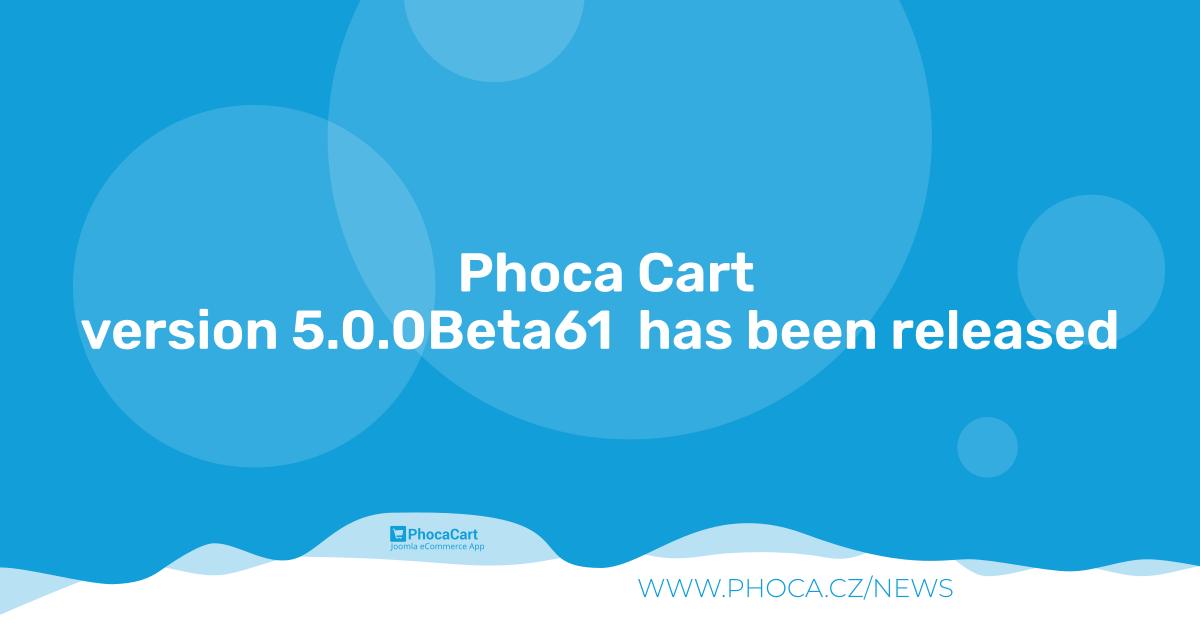
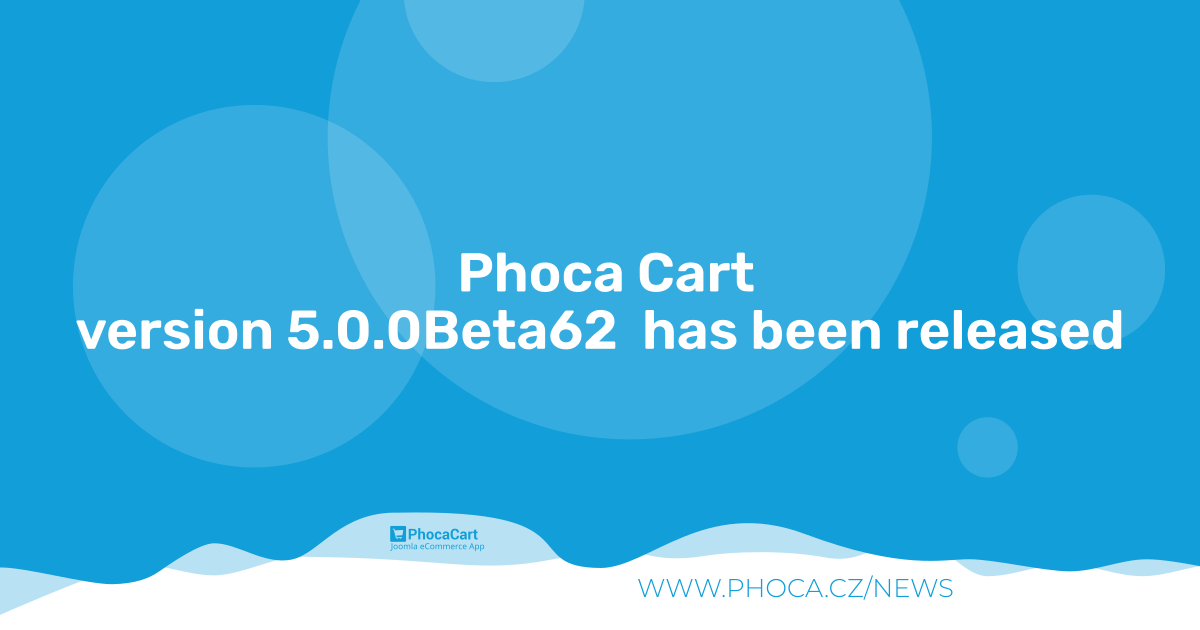
5.0.0Beta62

Changed region(s): [[0.0617, 0.4825, 0.9558, 0.573]]

diff --git a/media/js/phoca/jquery.phocaattribute.min.js b/media/js/phoca/jquery.phocaattribute.min.js
@@ -1,1 +1,1 @@
-function phChangeAttributeType(e){var t=(e=void 0!==e?".phj"+e:"")+".phjProductAttribute";jQuery(e+".phjCleanAttribute").remove(),jQuery(t).each(function(){let a="",i,r="#phItemAttribute"+jQuery(this).data("attribute-id-name"),u="#phItemHiddenAttribute"+jQuery(this).data("attribute-id-name");var e="#phItemBoxAttribute"+jQuery(this).data("attribute-id-name");let d=jQuery(this).data("attribute-type");var s=jQuery(this).data("type-view");let h=jQuery(this).data("type-icon"),n=jQuery(this).data("required");if(3==d?a="phSelectBoxImage":2==d&&(a="phSelectBoxButton"),""!=a){i=u+" ."+a;let t=jQuery(r).attr("name");var c=jQuery('<input type="hidden" name="'+t+'">');c.val(jQuery(r).val()),c.insertAfter(jQuery(r)),jQuery(u).css("display","block"),jQuery(e).css({display:"visible",position:"absolute",clip:"rect(0,0,0,0)"}),jQuery(e).addClass("phj"+s+" phjCleanAttribute"),jQuery(r+" option").each(function(){if(""!=jQuery(this).val()){let e="";3==d?e=jQuery('<div class="'+a+" "+h+'" data-value="'+jQuery(this).val()+'" data-value-alias="'+jQuery(this).data("value-alias")+'" title="'+jQuery(this).text()+'"><img src="'+jQuery(this).data("image")+'" alt="'+jQuery(this).text()+'" /></div>'):2==d&&(e=jQuery('<div class="'+a+" "+h+" color-"+jQuery(this).data("color").replace("#","")+'" style="background-color:'+jQuery(this).data("color")+'" data-value="'+jQuery(this).val()+'" data-value-alias="'+jQuery(this).data("value-alias")+'" title="'+jQuery(this).text()+'">&nbsp;</div>')),jQuery(this).is(":selected")&&e.addClass("on"),jQuery(u).append(e)}}),jQuery(i).on("click",function(e){if(e.preventDefault(),jQuery(this).hasClass("on")){if(1==n)return e.preventDefault(),!1;jQuery(this).removeClass("on"),jQuery('input[name="'+t+'"]').val(""),jQuery(r).val("").change()}else jQuery(i).removeClass("on"),jQuery(this).addClass("on"),jQuery('input[name="'+t+'"]').val(jQuery(this).data("value")),jQuery(r).val(jQuery(this).data("value")).change()})}})}function phAjaxChangeAttributeData(e,t,a,i){var r=Joomla.getOptions("phParamsPC"),u=Joomla.getOptions("phVarsPC").urlCheckoutChangeData,d=[],e=(d.id=e,d.id_item_price="#phItemPriceBox"+t+e,d.id_item_price_gift="#phItemPriceGiftBox"+t+e,d.id_item_stock="#phItemStockBox"+t+e,d.id_item_id="#phItemIdBox"+t+e,d.id_item_name="V"+t+"P"+e,d.product_add_to_cart_item=".phProductAddToCart"+t+e,d.product_add_to_cart_item_icon=".phProductAddToCartIcon"+t+e,d.view=t,d.method_price=r.dynamicChangePrice,d.method_stock=r.dynamicChangeStock,d.method_id=r.dynamicChangeId,d.method_image=r.dynamicChangeImage,d.task="change",d.type="changedata",d.class="ItemQuick"==t||"Pos"==t||"Item"==t?"ph-item-data-box":"ph-category-data-box","id="+d.id+"&"+a+"&"+i+"&class="+d.class+"&typeview="+d.view);phDoRequestMethods(u,e,d)}function phSetAttributeUrl(u){var e=Joomla.getOptions("phParamsPC"),t=Joomla.getOptions("phVarsPC");if(1!=e.dynamicChangeUrlAttributes)return!1;if("item"!=t.view)return!1;t=jQuery(location).attr("hash"),t=phReplaceAll("#","",t);let d=phUrlDeParam(t);t=".phjProductAttribute";let s="",h="",n="";var a=jQuery(t).closest("form").find("input[name=return]");let i="";void 0!==a.val()&&""!=a.val()&&(i=Base64.decode(a.val())),jQuery(t).each(function(){""!=s&&(s+="&");let e=this.id;var t=jQuery(this).data("alias");let a="",i="",r="#phItemHiddenAttribute"+jQuery(this).data("attribute-id-name");1==u?(void 0!==jQuery(this).find(":selected").data("value-alias")&&(a=jQuery(this).find(":selected").data("value-alias"),s=s+"a["+jQuery(this).data("alias")+"]="+a),void 0!==jQuery(this).find(":input:checked").data("value-alias")&&(jQuery.each(jQuery(this).find(":input:checked"),function(){""!=i&&(i+=","),i+=jQuery(this).data("value-alias")}),""!=i)&&(s=s+"a["+jQuery(this).data("alias")+"]="+i)):(void 0!==d.a&&void 0!==t&&void 0!==d.a[t]?(s=s+"a["+jQuery(this).data("alias")+"]="+d.a[t],void 0===(t=d.a[t].split(","))&&0==t.length||(jQuery("#"+e+" option").removeAttr("selected"),jQuery(r+" div").removeClass("on"),jQuery("#"+e+" input").removeAttr("checked"),jQuery(t).each(function(){jQuery("#"+e+" option[data-value-alias='"+this+"']").attr("selected","selected"),jQuery(r+" div[data-value-alias='"+this+"']").addClass("on"),jQuery("#"+e+" input[data-value-alias='"+this+"']").attr("checked","checked")}))):(void 0!==jQuery(this).find(":selected").data("value-alias")&&(a=jQuery(this).find(":selected").data("value-alias"),s=s+"a["+jQuery(this).data("alias")+"]="+a),void 0!==jQuery(this).find(":input:checked").data("value-alias")&&(jQuery.each(jQuery(this).find(":input:checked"),function(){""!=i&&(i+=","),i+=jQuery(this).data("value-alias")}),""!=i)&&(s=s+"a["+jQuery(this).data("alias")+"]="+i)),h=jQuery(this).data("type-view"),n=jQuery(this).data("product-id"))}),(0!=e.dynamicChangePrice||0!=e.dynamicChangeStock||0!=e.dynamicChangeId||0!=e.dynamicChangeImage&&1!=e.dynamicChangeImage)&&(t=".phjAddToCartV"+h+"P"+n,e=jQuery(t).find("select").serialize(),t=jQuery(t).find(":checkbox").serialize(),phAjaxChangeAttributeData(n,h,e,t)),s.lastIndexOf("&")==s.length-1&&(s=s.slice(0,-1)),(0==u&&""!=s||1==u)&&(s="#"+s,""!=i&&a.val(Base64.encode(i+s)),window.history.pushState({},"",s))}jQuery(document).ready(function(){phChangeAttributeType(),phSetAttributeUrl(0);jQuery(document).on("change","select.phjProductAttribute",function(e){var t=Joomla.getOptions("phParamsPC");if(0==t.dynamicChangePrice&&0==t.dynamicChangeStock&&0==t.dynamicChangeId&&(0==t.dynamicChangeImage||1==t.dynamicChangeImage))return!1;var t=jQuery(this).data("type-view"),a=jQuery(this).data("product-id"),i=".phjAddToCartV"+t+"P"+a;phAjaxChangeAttributeData(a,t,jQuery(i).find("select").serialize(),jQuery(i).find(":checkbox").serialize()),phSetAttributeUrl(1)});var e=".ph-checkbox-attribute.phjProductAttribute";jQuery(document).on("click",e,function(e){var t=Joomla.getOptions("phParamsPC");if("LABEL"!==e.target.tagName.toUpperCase()){if("svg"==t.theme||"svg"==t.iconType){if("SVG"===e.target.tagName.toUpperCase()||"IMG"===e.target.tagName.toUpperCase())return}else if(!("bs4"!=t.theme&&"bs5"!=t.theme||"SPAN"!==e.target.tagName.toUpperCase()&&"IMG"!==e.target.tagName.toUpperCase()))return;var t=jQuery(this).data("required"),a="#"+jQuery(this).attr("id")+" input:checked",a=jQuery(a).length;if(t&&0==a)return jQuery(e.target).parent().addClass("active"),e.preventDefault(),!1;t="#"+jQuery(this).attr("id")+" input[type='checkbox']",a=jQuery(t);0<a.length&&a.each(function(e){var t=jQuery(this).parent();jQuery(this).is(":checked")?t.addClass("active"):t.removeClass("active")})}}),jQuery(document).on("click",e,function(e){var t=Joomla.getOptions("phParamsPC");if((0!=t.dynamicChangePrice||0!=t.dynamicChangeStock||0!=t.dynamicChangeId||0!=t.dynamicChangeImage&&1!=t.dynamicChangeImage)&&"LABEL"!==e.target.tagName.toUpperCase()){if("svg"==t.theme||"svg"==t.iconType){if("SVG"===e.target.tagName.toUpperCase()||"IMG"===e.target.tagName.toUpperCase())return}else if(!("bs4"!=t.theme&&"bs5"!=t.theme||"SPAN"!==e.target.tagName.toUpperCase()&&"IMG"!==e.target.tagName.toUpperCase()))return;var t=jQuery(this).data("product-id"),e=jQuery(this).data("type-view"),a=".phjAddToCartV"+e+"P"+t;phAjaxChangeAttributeData(t,e,jQuery(a).find("select").serialize(),jQuery(a).find(":checkbox").serialize()),phSetAttributeUrl(1)}}),jQuery(".phAOGift").on("input",function(){var t="."+jQuery(this).data("type");if(".phAOGiftType"==t){var a=jQuery(this).data("title"),a=(jQuery(".phAOGiftTitle").text(a),jQuery(this).data("image")),a=(jQuery(".phAOGiftImage").attr("src",a),jQuery(this).data("date"));jQuery(".phAOGiftDate").text(a);let e=jQuery(this).data("description");""!=e&&(e=Base64.decode(e)),jQuery(".phAOGiftDescription").html(e);a=jQuery(this).data("class-name");jQuery(t).attr("class","phAOGiftType ph-gift-voucher-box "+a)}else jQuery(t).text(jQuery(this).val())})});
+function phChangeAttributeType(e){var t=(e=void 0!==e?".phj"+e:"")+".phjProductAttribute";jQuery(e+".phjCleanAttribute").remove(),jQuery(t).each(function(){let a="",i,r="#phItemAttribute"+jQuery(this).data("attribute-id-name"),u="#phItemHiddenAttribute"+jQuery(this).data("attribute-id-name");var e="#phItemBoxAttribute"+jQuery(this).data("attribute-id-name");let d=jQuery(this).data("attribute-type");var s=jQuery(this).data("type-view");let h=jQuery(this).data("type-icon"),n=jQuery(this).data("required");if(3==d?a="phSelectBoxImage":2==d&&(a="phSelectBoxButton"),""!=a){i=u+" ."+a;let t=jQuery(r).attr("name");var c=jQuery('<input type="hidden" name="'+t+'">');c.val(jQuery(r).val()),c.insertAfter(jQuery(r)),jQuery(u).css("display","block"),jQuery(e).css({display:"visible",position:"absolute",clip:"rect(0,0,0,0)"}),jQuery(e).addClass("phj"+s+" phjCleanAttribute"),jQuery(r+" option").each(function(){if(""!=jQuery(this).val()){let e="";3==d?e=jQuery('<div class="'+a+" "+h+'" data-value="'+jQuery(this).val()+'" data-value-alias="'+jQuery(this).data("value-alias")+'" title="'+jQuery(this).text()+'"><img src="'+jQuery(this).data("image")+'" alt="'+jQuery(this).text()+'" /></div>'):2==d&&(e=jQuery('<div class="'+a+" "+h+" color-"+jQuery(this).data("color").replace("#","")+'" style="background-color:'+jQuery(this).data("color")+'" data-value="'+jQuery(this).val()+'" data-value-alias="'+jQuery(this).data("value-alias")+'" title="'+jQuery(this).text()+'">&nbsp;</div>')),jQuery(this).is(":selected")&&e.addClass("on"),jQuery(u).append(e)}}),jQuery(i).on("click",function(e){if(e.preventDefault(),jQuery(this).hasClass("on")){if(1==n)return e.preventDefault(),!1;jQuery(this).removeClass("on"),jQuery('input[name="'+t+'"]').val(""),jQuery(r).val("").change()}else jQuery(i).removeClass("on"),jQuery(this).addClass("on"),jQuery('input[name="'+t+'"]').val(jQuery(this).data("value")),jQuery(r).val(jQuery(this).data("value")).change()})}})}function phAjaxChangeAttributeData(e,t,a,i){var r=Joomla.getOptions("phParamsPC"),u=Joomla.getOptions("phVarsPC").urlCheckoutChangeData,d=[],e=(d.id=e,d.id_item_price="#phItemPriceBox"+t+e,d.id_item_price_gift="#phItemPriceGiftBox"+t+e,d.id_item_stock="#phItemStockBox"+t+e,d.id_item_id="#phItemIdBox"+t+e,d.id_item_name="V"+t+"P"+e,d.product_add_to_cart_item=".phProductAddToCart"+t+e,d.product_add_to_cart_item_icon=".phProductAddToCartIcon"+t+e,d.view=t,d.method_price=r.dynamicChangePrice,d.method_stock=r.dynamicChangeStock,d.method_id=r.dynamicChangeId,d.method_image=r.dynamicChangeImage,d.task="change",d.type="changedata",d.class="ItemQuick"==t||"Pos"==t||"Item"==t?"ph-item-data-box":"ph-category-data-box","id="+d.id+"&"+a+"&"+i+"&class="+d.class+"&typeview="+d.view);phDoRequestMethods(u,e,d)}function phSetAttributeUrl(u){var e=Joomla.getOptions("phParamsPC"),t=Joomla.getOptions("phVarsPC");if(1!=e.dynamicChangeUrlAttributes)return!1;if("item"!=t.view)return!1;t=jQuery(location).attr("hash"),t=phReplaceAll("#","",t);let d=phUrlDeParam(t);t=".phjProductAttribute";let s="",h="",n="";var a=jQuery(t).closest("form").find("input[name=return]");let i="";void 0!==a.val()&&""!=a.val()&&(i=Base64.decode(a.val())),jQuery(t).each(function(){""!=s&&(s+="&");let e=this.id;var t=jQuery(this).data("alias");let a="",i="",r="#phItemHiddenAttribute"+jQuery(this).data("attribute-id-name");1==u?(void 0!==jQuery(this).find(":selected").data("value-alias")&&(a=jQuery(this).find(":selected").data("value-alias"),s=s+"a["+jQuery(this).data("alias")+"]="+a),void 0!==jQuery(this).find(":input:checked").data("value-alias")&&(jQuery.each(jQuery(this).find(":input:checked"),function(){""!=i&&(i+=","),i+=jQuery(this).data("value-alias")}),""!=i)&&(s=s+"a["+jQuery(this).data("alias")+"]="+i)):(void 0!==d.a&&void 0!==t&&void 0!==d.a[t]?(s=s+"a["+jQuery(this).data("alias")+"]="+d.a[t],void 0===(t=d.a[t].split(","))&&0==t.length||(jQuery("#"+e+" option").removeAttr("selected"),jQuery(r+" div").removeClass("on"),jQuery("#"+e+" input").removeAttr("checked"),jQuery(t).each(function(){jQuery("#"+e+" option[data-value-alias='"+this+"']").attr("selected","selected"),jQuery(r+" div[data-value-alias='"+this+"']").addClass("on"),jQuery("#"+e+" input[data-value-alias='"+this+"']").attr("checked","checked")}))):(void 0!==jQuery(this).find(":selected").data("value-alias")&&(a=jQuery(this).find(":selected").data("value-alias"),s=s+"a["+jQuery(this).data("alias")+"]="+a),void 0!==jQuery(this).find(":input:checked").data("value-alias")&&(jQuery.each(jQuery(this).find(":input:checked"),function(){""!=i&&(i+=","),i+=jQuery(this).data("value-alias")}),""!=i)&&(s=s+"a["+jQuery(this).data("alias")+"]="+i)),h=jQuery(this).data("type-view"),n=jQuery(this).data("product-id"))}),(0!=e.dynamicChangePrice||0!=e.dynamicChangeStock||0!=e.dynamicChangeId||0!=e.dynamicChangeImage&&1!=e.dynamicChangeImage)&&(t=".phjAddToCartV"+h+"P"+n,e=jQuery(t).find("select").serialize(),t=jQuery(t).find(":checkbox").serialize(),phAjaxChangeAttributeData(n,h,e,t)),s.lastIndexOf("&")==s.length-1&&(s=s.slice(0,-1)),(0==u&&""!=s||1==u)&&(s="#"+s,""!=i&&a.val(Base64.encode(i+s)),window.history.pushState({},"",s))}jQuery(document).ready(function(){phChangeAttributeType(),phSetAttributeUrl(0);jQuery(document).on("change","select.phjProductAttribute",function(e){var t=Joomla.getOptions("phParamsPC");if(0==t.dynamicChangePrice&&0==t.dynamicChangeStock&&0==t.dynamicChangeId&&(0==t.dynamicChangeImage||1==t.dynamicChangeImage))return 1==t.dynamicChangeUrlAttributes&&phSetAttributeUrl(1),!1;var t=jQuery(this).data("type-view"),a=jQuery(this).data("product-id"),i=".phjAddToCartV"+t+"P"+a;phAjaxChangeAttributeData(a,t,jQuery(i).find("select").serialize(),jQuery(i).find(":checkbox").serialize()),phSetAttributeUrl(1)});var e=".ph-checkbox-attribute.phjProductAttribute";jQuery(document).on("click",e,function(e){var t=Joomla.getOptions("phParamsPC");if("LABEL"!==e.target.tagName.toUpperCase()){if("svg"==t.theme||"svg"==t.iconType){if("SVG"===e.target.tagName.toUpperCase()||"IMG"===e.target.tagName.toUpperCase())return}else if(!("bs4"!=t.theme&&"bs5"!=t.theme||"SPAN"!==e.target.tagName.toUpperCase()&&"IMG"!==e.target.tagName.toUpperCase()))return;var t=jQuery(this).data("required"),a="#"+jQuery(this).attr("id")+" input:checked",a=jQuery(a).length;if(t&&0==a)return jQuery(e.target).parent().addClass("active"),e.preventDefault(),!1;t="#"+jQuery(this).attr("id")+" input[type='checkbox']",a=jQuery(t);0<a.length&&a.each(function(e){var t=jQuery(this).parent();jQuery(this).is(":checked")?t.addClass("active"):t.removeClass("active")})}}),jQuery(document).on("click",e,function(e){var t=Joomla.getOptions("phParamsPC");if(0!=t.dynamicChangePrice||0!=t.dynamicChangeStock||0!=t.dynamicChangeId||0!=t.dynamicChangeImage&&1!=t.dynamicChangeImage){if("LABEL"!==e.target.tagName.toUpperCase()){if("svg"==t.theme||"svg"==t.iconType){if("SVG"===e.target.tagName.toUpperCase()||"IMG"===e.target.tagName.toUpperCase())return}else if(!("bs4"!=t.theme&&"bs5"!=t.theme||"SPAN"!==e.target.tagName.toUpperCase()&&"IMG"!==e.target.tagName.toUpperCase()))return;var e=jQuery(this).data("product-id"),a=jQuery(this).data("type-view"),i=".phjAddToCartV"+a+"P"+e;phAjaxChangeAttributeData(e,a,jQuery(i).find("select").serialize(),jQuery(i).find(":checkbox").serialize()),phSetAttributeUrl(1)}}else 1==t.dynamicChangeUrlAttributes&&phSetAttributeUrl(1)}),jQuery(".phAOGift").on("input",function(){var t="."+jQuery(this).data("type");if(".phAOGiftType"==t){var a=jQuery(this).data("title"),a=(jQuery(".phAOGiftTitle").text(a),jQuery(this).data("image")),a=(jQuery(".phAOGiftImage").attr("src",a),jQuery(this).data("date"));jQuery(".phAOGiftDate").text(a);let e=jQuery(this).data("description");""!=e&&(e=Base64.decode(e)),jQuery(".phAOGiftDescription").html(e);a=jQuery(this).data("class-name");jQuery(t).attr("class","phAOGiftType ph-gift-voucher-box "+a)}else jQuery(t).text(jQuery(this).val())})});

diff --git a/media/js/phoca/jquery.phocaattribute.js b/media/js/phoca/jquery.phocaattribute.js
@@ -245,6 +245,7 @@ function phSetAttributeUrl(phSetValueByUser) {
 				if (jQuery(this).find(':selected').data('value-alias') !== undefined) {
 					valueAlias = jQuery(this).find(':selected').data('value-alias');
 					phHashNew = phHashNew + 'a[' + jQuery(this).data('alias') + ']=' + valueAlias;
+
 				}
 
 				// CHECKBOX
@@ -260,6 +261,7 @@ function phSetAttributeUrl(phSetValueByUser) {
 					if (valuesAlias != '') {
 						phHashNew = phHashNew + 'a[' + jQuery(this).data('alias') + ']=' + valuesAlias;
 					}
+
 				}
 			}
 
@@ -283,6 +285,7 @@ function phSetAttributeUrl(phSetValueByUser) {
 	if (phHashNew.lastIndexOf('&') == (phHashNew.length - 1)) {
 		phHashNew = phHashNew.slice(0, -1);
 	}
+
 	// Update URL after #
 	if (phSetValueByUser == 0 && phHashNew != '') {
 		phHashNew = '#' + phHashNew;
@@ -318,7 +321,14 @@ jQuery(document).ready(function() {
 
 		const phParams = Joomla.getOptions('phParamsPC');
 		if (phParams['dynamicChangePrice'] == 0 && phParams['dynamicChangeStock'] == 0 && phParams['dynamicChangeId'] == 0 && (phParams['dynamicChangeImage'] == 0 || phParams['dynamicChangeImage'] == 1)) {
-			return false;// Interactive Change is disabled
+
+			// Interactive Change is disabled (ajax)
+			// But interactive URL change can be enabled
+			if (phParams['dynamicChangeUrlAttributes'] == 1) {
+				phSetAttributeUrl(1);
+			}
+
+			return false;
 		}
 
 		//jQuery(this).off("change");';
@@ -385,7 +395,14 @@ jQuery(document).ready(function() {
 		const phParams = Joomla.getOptions('phParamsPC');
 
 		if (phParams['dynamicChangePrice'] == 0 && phParams['dynamicChangeStock'] == 0 && phParams['dynamicChangeId'] == 0 && (phParams['dynamicChangeImage'] == 0 || phParams['dynamicChangeImage'] == 1)) {
-			return;// Interactive Change is disabled
+
+			// Interactive Change is disabled (ajax)
+			// But interactive URL change can be enabled
+			if (phParams['dynamicChangeUrlAttributes'] == 1) {
+				phSetAttributeUrl(1);
+			}
+
+			return;
 		}
 
 		if (e.target.tagName.toUpperCase() === "LABEL") { return;}// Prevent from twice running

diff --git a/admin/views/phocacartcp/view.html.php b/admin/views/phocacartcp/view.html.php
@@ -28,7 +28,6 @@ class PhocaCartCpViewPhocaCartCp extends HtmlView
 
 	function display($tpl = null) {
 
-
 		$this->t	= PhocacartUtils::setVars();
 		$this->s    = PhocacartRenderStyle::getStyles();
 		$this->r	= new PhocacartRenderAdminview();

diff --git a/site/views/categories/view.html.php b/site/views/categories/view.html.php
@@ -25,7 +25,6 @@ class PhocaCartViewCategories extends HtmlView
 
 	public function display($tpl = null) {
 
-
 		$app									= Factory::getApplication();
 		$model									= $this->getModel();
 		$this->p 								= $app->getParams();

diff --git a/README.MD b/README.MD
@@ -132,7 +132,7 @@ Phoca Cart is e-commerce extension - powerful shopping cart for Joomla! CMS. Pho
 
 ## Version (Joomla! 5.x)
 
-5.0.0Beta61
+5.0.0Beta62
 
 
 
